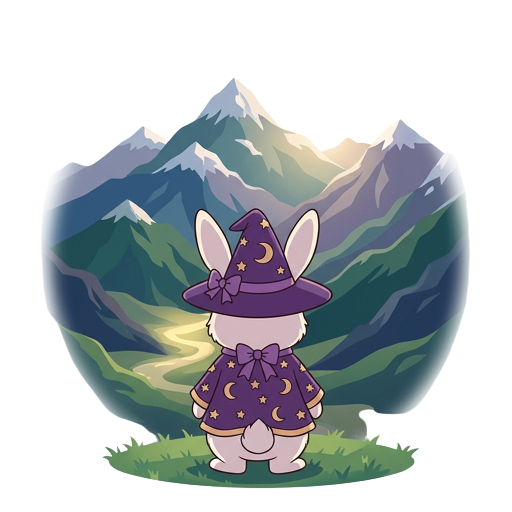
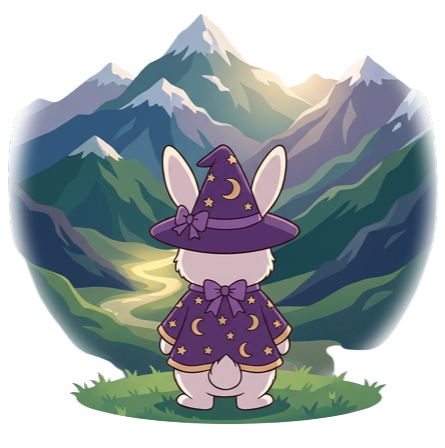
update

diff --git a/pages/vedic.html b/pages/vedic.html
@@ -138,7 +138,7 @@
 
 <div class="page-content">
   <div class="hero">
-    <div style="margin-bottom:12px"><img src="../images/mascot-indian.png" alt="mascot" style="width:120px;height:120px;object-fit:contain;" onerror="this.style.display='none'"></div>
+    <div style="margin-bottom:12px"><img src="../images/mascot-vedic.png" alt="mascot" style="width:120px;height:120px;object-fit:contain;" onerror="this.style.display='none'"></div>
     <div class="hero-title">🕉 Vedic Jyotish</div>
     <div class="hero-ref">📖 อ้างอิง: Brihat Parashara Hora Shastra</div>
     <div class="hero-desc">ศาสตร์โหราศาสตร์ที่ศักดิ์สิทธิ์ที่สุดของอินเดีย<br>วิเคราะห์ดวงชะตาจากตำแหน่งดาวจริงค่ะ</div>
